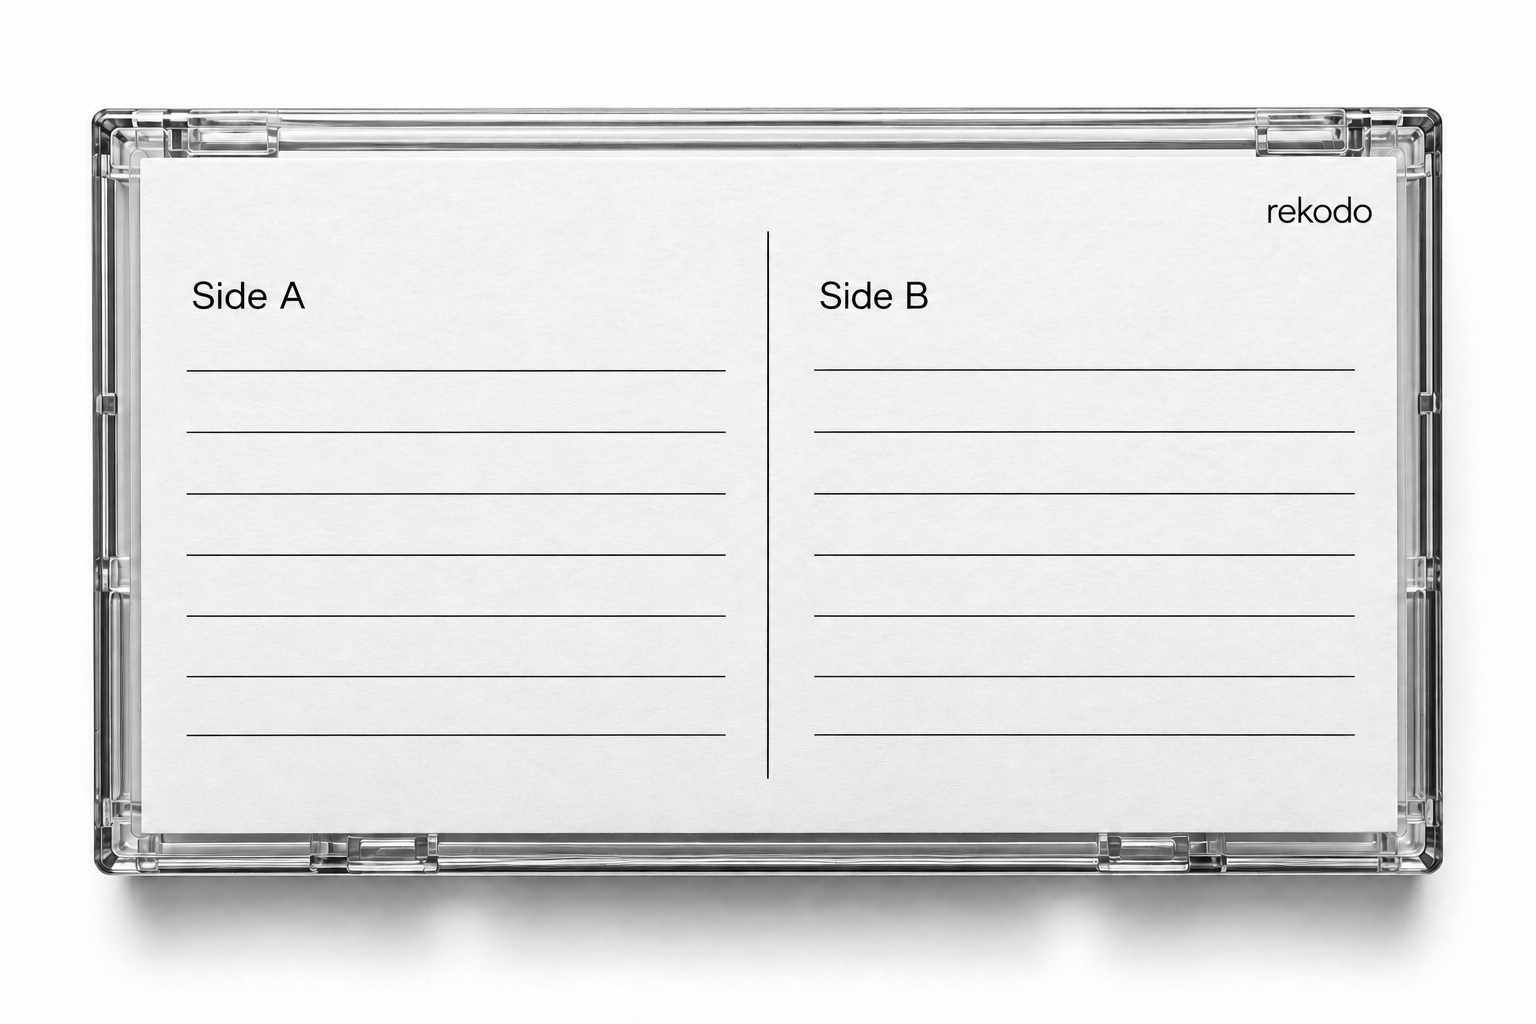
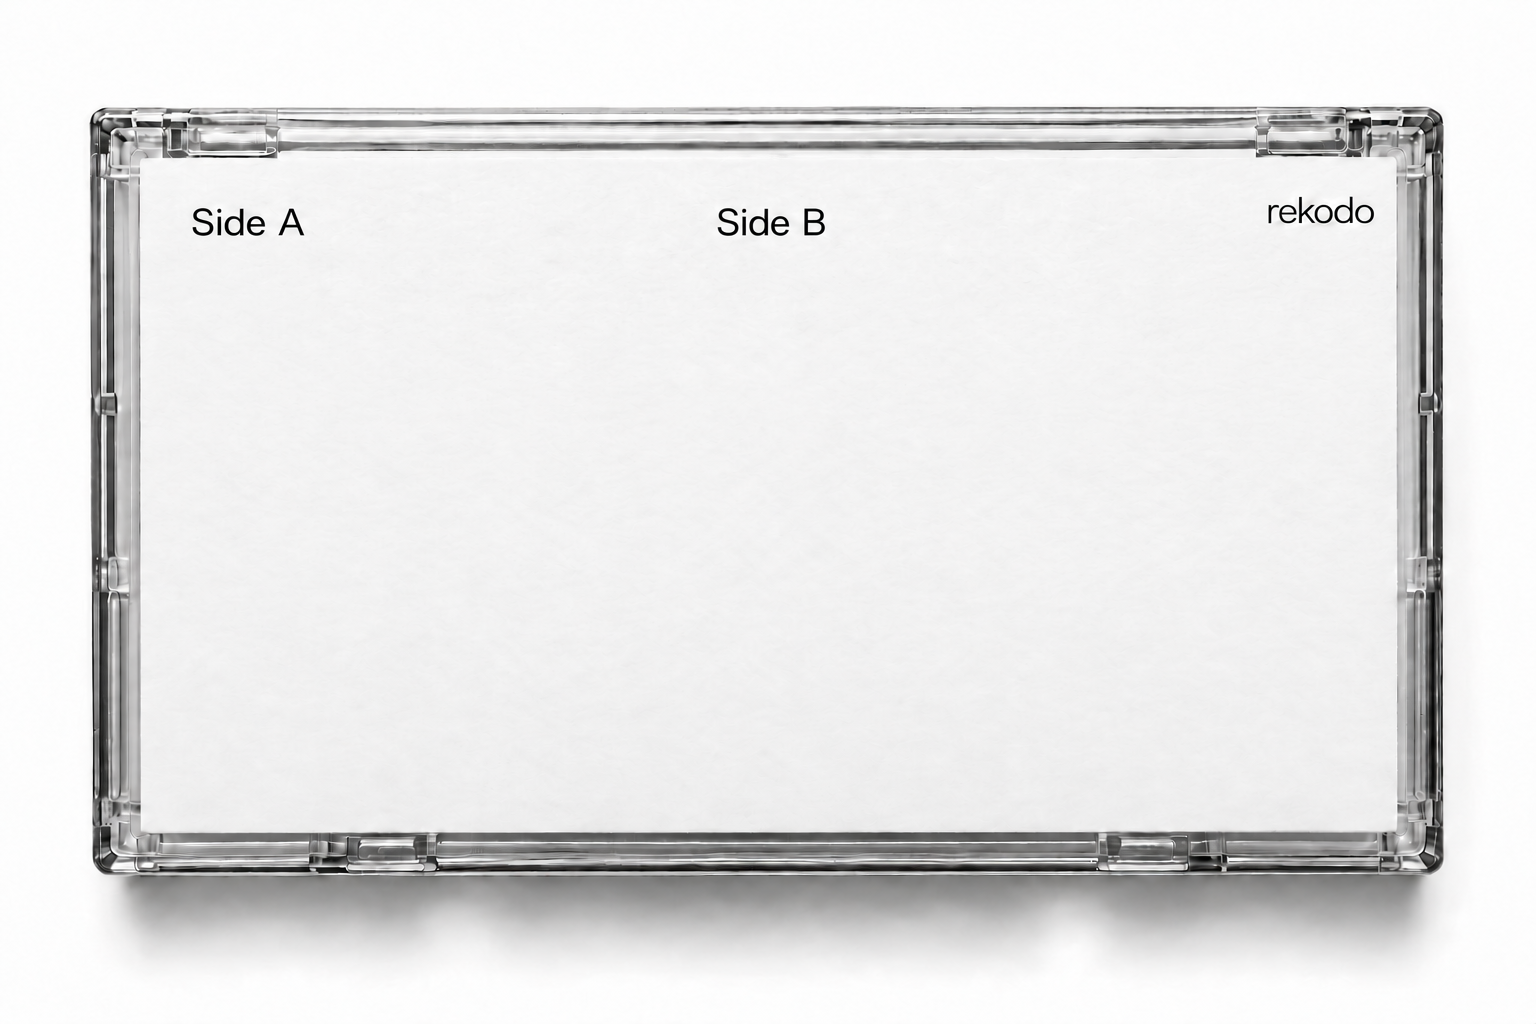
Mixtape: new blank back card, dynamic font scaling, emoji picker
- Replace lined back card with blank version; tracks spaced evenly
  across the white area with font that shrinks to fit any track count
- Remove 7-track hard limit; text auto-scales (min 7px)
- Add 10-emoji palette below title input (❤ ⭐ 🎵 🔥 ✨ 🌙 🎶 💫 🌸 🌊)
  that inserts at cursor position

diff --git a/src/components/lists/mixtape/CassetteBackCard.tsx b/src/components/lists/mixtape/CassetteBackCard.tsx
@@ -14,10 +14,9 @@ interface Props {
   width?: number;
 }
 
-export const MAX_BACK_TRACKS = 7;
-
-// Y-position of each ruled line as % of image height (1536×1024 source image)
-const LINE_Y = [35.6, 43.6, 51.5, 59.4, 67.3, 75.2, 83.1];
+// Track list occupies this vertical band of the image (% of height)
+const TRACK_TOP    = 25;
+const TRACK_BOTTOM = 87;
 
 const HAND = '"Bradley Hand", "Caveat", "Kalam", cursive';
 const MONO = '"Courier New", monospace';
@@ -27,64 +26,61 @@ function fmt(ms: number): string {
   return `${Math.floor(s / 60)}:${(s % 60).toString().padStart(2, "0")}`;
 }
 
-function SideLines({
-  tracks, left, right, fs, fsSmall, gap,
+function TrackColumn({
+  tracks, left, right, n, fs, fsSmall, gap,
 }: {
   tracks: TrackItem[];
   left: string; right: string;
-  fs: number; fsSmall: number; gap: number;
+  n: number; fs: number; fsSmall: number; gap: number;
 }) {
+  const rowPct = (TRACK_BOTTOM - TRACK_TOP) / n;
+
   return (
     <>
-      {LINE_Y.map((lineY, i) => {
-        const t = tracks[i];
-        return (
-          <div
-            key={i}
-            style={{
-              position: "absolute",
-              top: `${lineY - 3.5}%`,
-              left, right,
-              display: "flex",
-              alignItems: "baseline",
-              gap,
-              overflow: "hidden",
-            }}
-          >
-            <span style={{
-              fontFamily: MONO, fontSize: fsSmall,
-              color: "#bbb", flexShrink: 0, lineHeight: 1,
-            }}>
-              {i + 1}.
+      {tracks.map((t, i) => (
+        <div
+          key={i}
+          style={{
+            position: "absolute",
+            top: `${TRACK_TOP + i * rowPct + rowPct * 0.5}%`,
+            left, right,
+            transform: "translateY(-50%)",
+            display: "flex",
+            alignItems: "baseline",
+            gap,
+            overflow: "hidden",
+          }}
+        >
+          <span style={{ fontFamily: MONO, fontSize: fsSmall, color: "#bbb", flexShrink: 0, lineHeight: 1 }}>
+            {i + 1}.
+          </span>
+          <span style={{
+            fontFamily: HAND, fontSize: fs, color: "#0d0d0d",
+            flex: 1, overflow: "hidden", whiteSpace: "nowrap",
+            textOverflow: "ellipsis", lineHeight: 1,
+          }}>
+            {t.title}
+          </span>
+          {t.duration_ms > 0 && (
+            <span style={{ fontFamily: MONO, fontSize: fsSmall, color: "#999", flexShrink: 0, lineHeight: 1 }}>
+              {fmt(t.duration_ms)}
             </span>
-            <span style={{
-              fontFamily: HAND, fontSize: fs,
-              color: t ? "#0d0d0d" : "transparent",
-              flex: 1, overflow: "hidden", whiteSpace: "nowrap",
-              textOverflow: "ellipsis", lineHeight: 1,
-            }}>
-              {t ? t.title : "x"}
-            </span>
-            {t && t.duration_ms > 0 && (
-              <span style={{
-                fontFamily: MONO, fontSize: fsSmall,
-                color: "#999", flexShrink: 0, lineHeight: 1,
-              }}>
-                {fmt(t.duration_ms)}
-              </span>
-            )}
-          </div>
-        );
-      })}
+          )}
+        </div>
+      ))}
     </>
   );
 }
 
 export default function CassetteBackCard({ sideA, sideB, width = 520 }: Props) {
   const height = Math.round(width * (1024 / 1536));
-  const fs      = Math.round(width * 0.021);
-  const fsSmall = Math.round(width * 0.015);
-  const gap     = Math.round(width * 0.007);
+
+  // Font scales with available row height; caps at a comfortable max
+  const n            = Math.max(sideA.length, sideB.length, 1);
+  const rowHeightPx  = height * (TRACK_BOTTOM - TRACK_TOP) / 100 / n;
+  const fs           = Math.max(7, Math.min(Math.round(rowHeightPx * 0.52), Math.round(width * 0.026)));
+  const fsSmall      = Math.max(6, Math.round(fs * 0.72));
+  const gap          = Math.max(2, Math.round(fs * 0.35));
 
   return (
     <div style={{ position: "relative", width, height, display: "inline-block", flexShrink: 0 }}>
@@ -97,15 +93,15 @@ export default function CassetteBackCard({ sideA, sideB, width = 520 }: Props) {
         style={{ display: "block", width: "100%", height: "100%" }}
       />
       <div style={{ position: "absolute", inset: 0, pointerEvents: "none" }}>
-        <SideLines
-          tracks={sideA.slice(0, MAX_BACK_TRACKS)}
-          left="8.5%" right="54%"
-          fs={fs} fsSmall={fsSmall} gap={gap}
+        <TrackColumn
+          tracks={sideA}
+          left="8%" right="55%"
+          n={n} fs={fs} fsSmall={fsSmall} gap={gap}
         />
-        <SideLines
-          tracks={sideB.slice(0, MAX_BACK_TRACKS)}
-          left="53.5%" right="8%"
-          fs={fs} fsSmall={fsSmall} gap={gap}
+        <TrackColumn
+          tracks={sideB}
+          left="44%" right="8%"
+          n={n} fs={fs} fsSmall={fsSmall} gap={gap}
         />
       </div>
     </div>

diff --git a/src/components/lists/mixtape/MixtapeTab.tsx b/src/components/lists/mixtape/MixtapeTab.tsx
@@ -7,7 +7,7 @@ import { toPng } from "html-to-image";
 const CassetteSVG      = dynamic(() => import("./CassetteSVG"),      { ssr: false });
 const CassetteBackCard = dynamic(() => import("./CassetteBackCard"), { ssr: false });
 
-const MAX_BACK_TRACKS = 7;
+const EMOJIS = ["❤", "⭐", "🎵", "🔥", "✨", "🌙", "🎶", "💫", "🌸", "🌊"];
 
 const MONO   = "var(--font-mono)";
 const SERIF  = "var(--font-editorial)";
@@ -142,8 +142,8 @@ function SidePanel({
         <span style={{ fontFamily: MONO, fontSize: 10, letterSpacing: "0.15em", textTransform: "uppercase", fontWeight: 600 }}>
           Side {side}
         </span>
-        <span style={{ fontFamily: MONO, fontSize: 10, color: tracks.length > MAX_BACK_TRACKS ? "#cc2200" : MUTED }}>
-          {tracks.length} / {MAX_BACK_TRACKS} tracks
+        <span style={{ fontFamily: MONO, fontSize: 10, color: MUTED }}>
+          {tracks.length} track{tracks.length !== 1 ? "s" : ""}
         </span>
       </div>
       <DurationBar used={usedMs} limit={limit} label="TAPE" />
@@ -522,6 +522,20 @@ export default function MixtapeTab({ username }: { username: string }) {
   const [showShare,        setShowShare]        = useState(false);
 
   const searchTimer = useRef<ReturnType<typeof setTimeout> | null>(null);
+  const titleRef    = useRef<HTMLInputElement>(null);
+
+  function insertEmoji(emoji: string) {
+    const input = titleRef.current;
+    if (!input) { setTitle(prev => prev + emoji); return; }
+    const start = input.selectionStart ?? title.length;
+    const end   = input.selectionEnd   ?? title.length;
+    const next  = title.slice(0, start) + emoji + title.slice(end);
+    setTitle(next);
+    requestAnimationFrame(() => {
+      input.setSelectionRange(start + emoji.length, start + emoji.length);
+      input.focus();
+    });
+  }
 
   // Load saved mixtapes list on mount
   useEffect(() => {
@@ -703,10 +717,11 @@ export default function MixtapeTab({ username }: { username: string }) {
             Mixtape title
           </label>
           <input
+            ref={titleRef}
             value={title}
             onChange={e => setTitle(e.target.value)}
             placeholder="Summer 2026 Mix"
-            maxLength={40}
+            maxLength={44}
             style={{
               fontFamily: SERIF, fontSize: 15, width: "100%",
               padding: "8px 10px", border: `1px solid ${RULE}`,
@@ -714,6 +729,23 @@ export default function MixtapeTab({ username }: { username: string }) {
               boxSizing: "border-box",
             }}
           />
+          {/* Emoji palette */}
+          <div style={{ display: "flex", gap: 4, marginTop: 6, flexWrap: "wrap" }}>
+            {EMOJIS.map(e => (
+              <button
+                key={e}
+                onClick={() => insertEmoji(e)}
+                title={`Add ${e}`}
+                style={{
+                  fontSize: 16, lineHeight: 1, padding: "2px 4px",
+                  background: "none", border: `1px solid ${RULE}`,
+                  borderRadius: 4, cursor: "pointer",
+                }}
+              >
+                {e}
+              </button>
+            ))}
+          </div>
         </div>
         <div>
           <label style={{ fontFamily: MONO, fontSize: 9, letterSpacing: "0.12em", textTransform: "uppercase", color: MUTED, display: "block", marginBottom: 5 }}>
